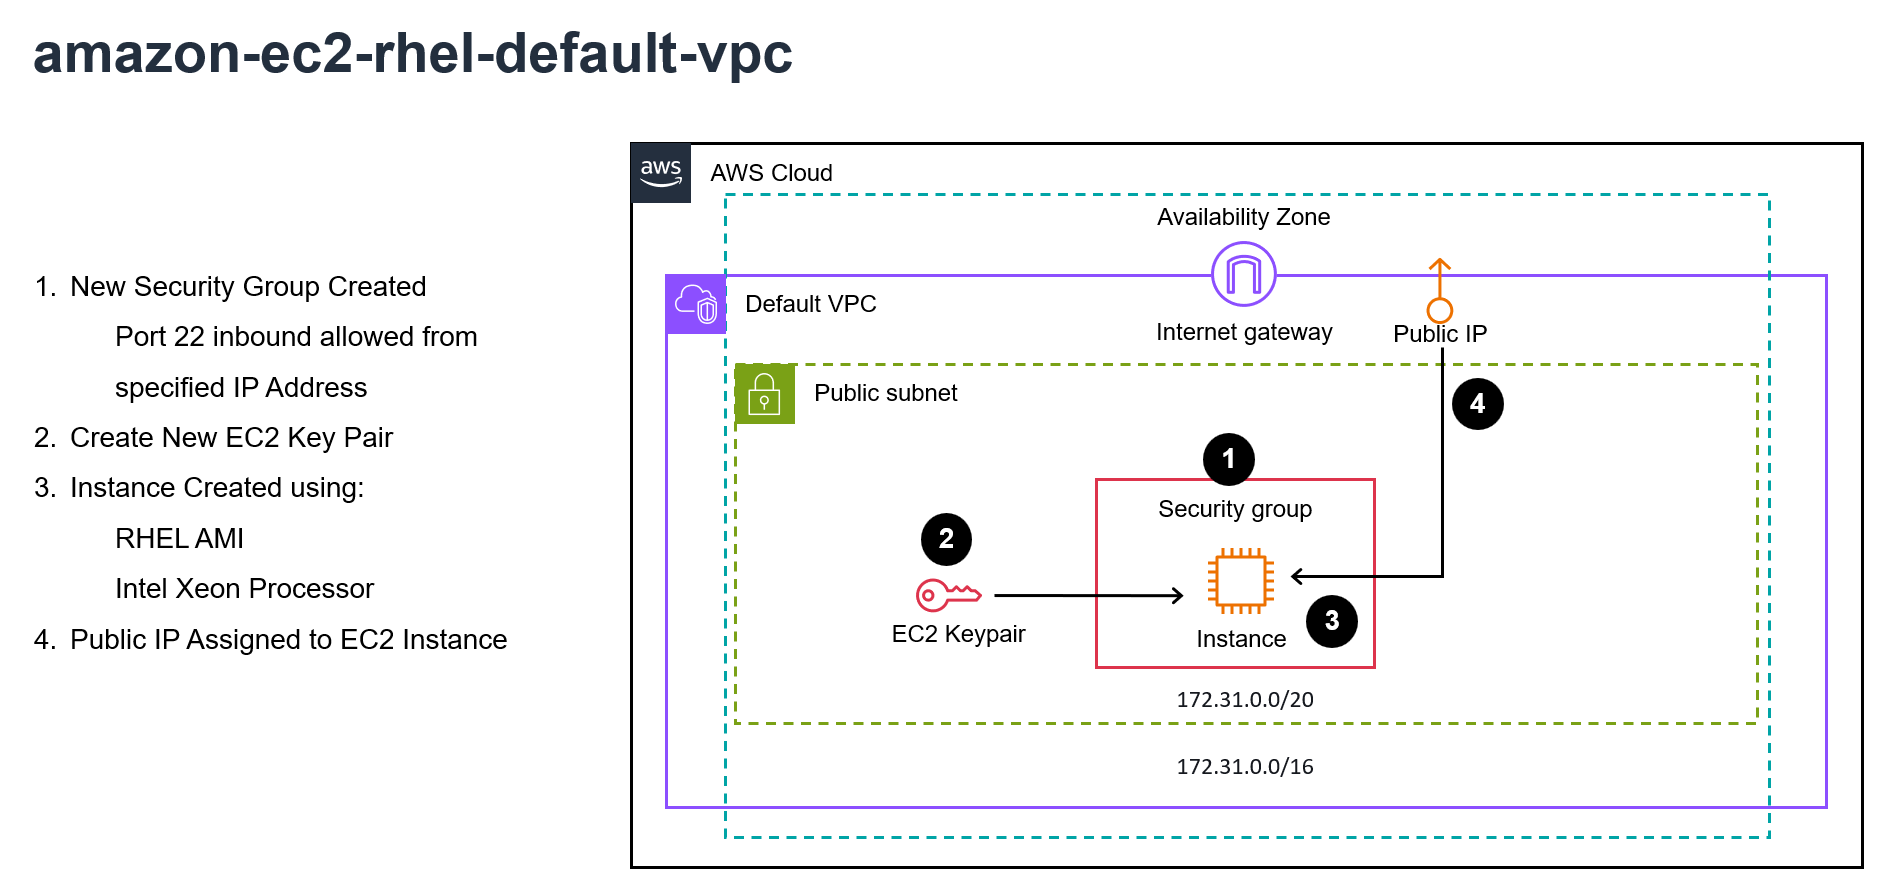
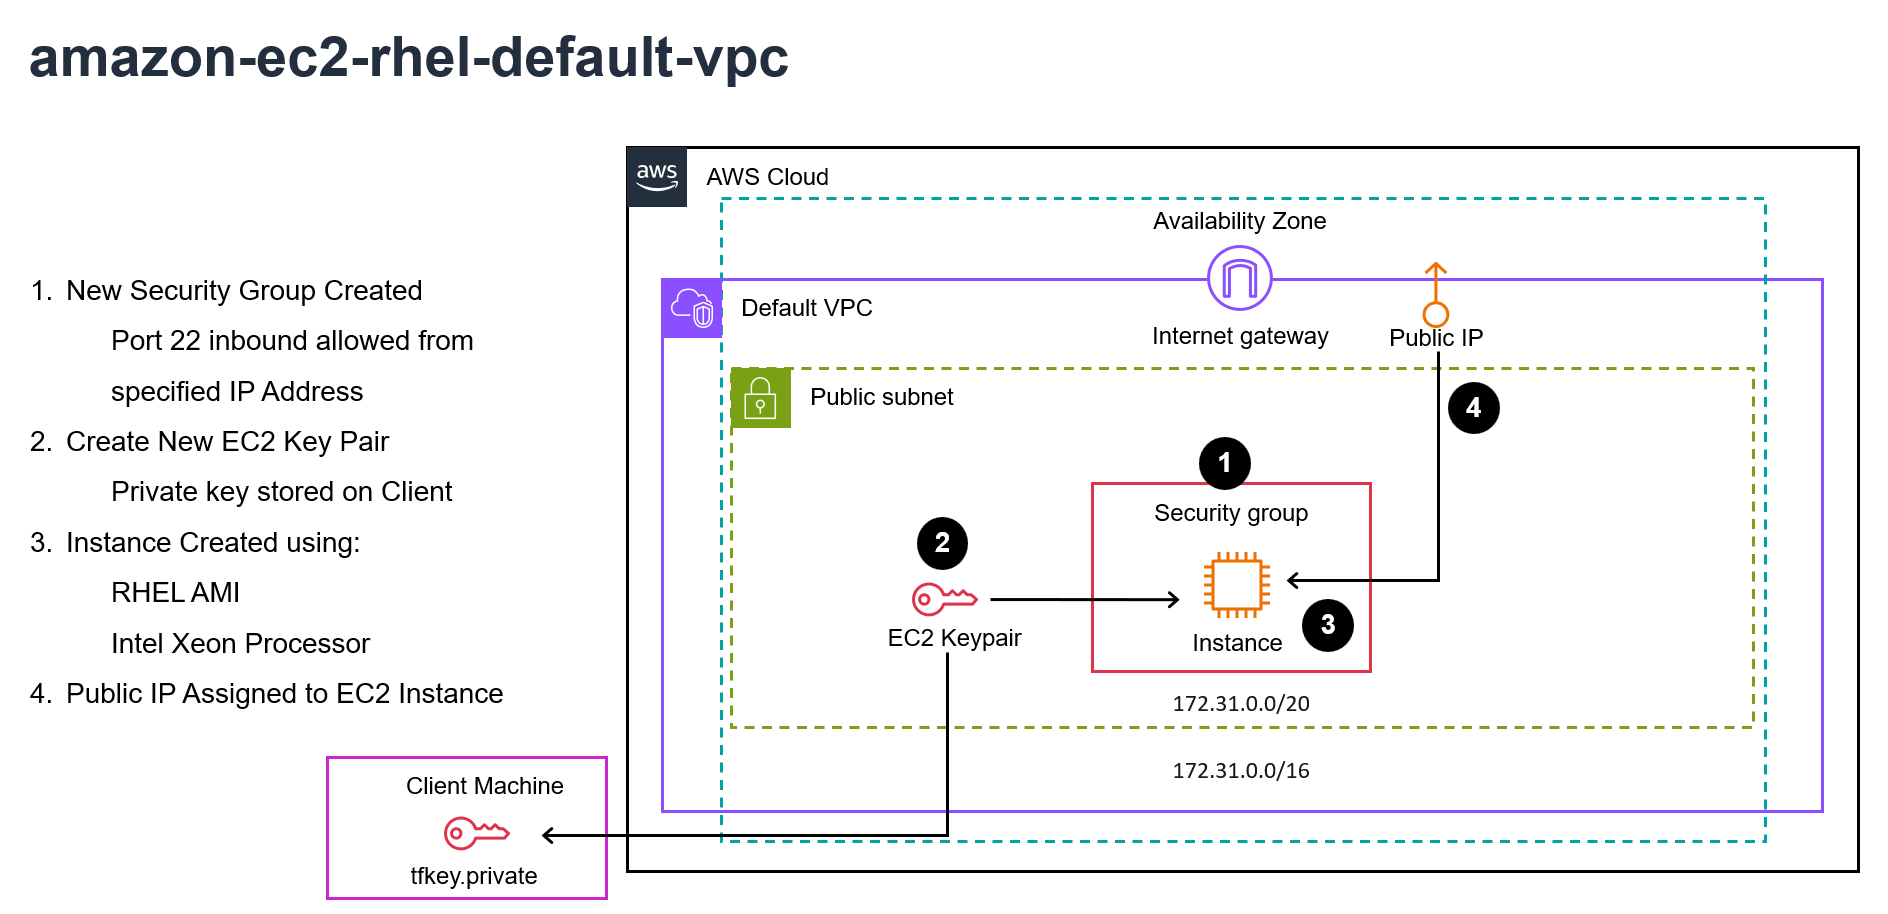
updated readme
Added in Architecture diagram and other components to readmes so they will be approved to use in marketplace

diff --git a/examples/amazon-linux-ec2-capacity-reservation-default-vpc/README.md b/examples/amazon-linux-ec2-capacity-reservation-default-vpc/README.md
@@ -10,15 +10,19 @@
 
 This example provisions a capacity reservation in AWS availability zone us-east-1d. This capacity reservation is used for instance type m6i.large for Linux/UNIX in this availability zone. Instance eligibility for this capacity reservation will be targetted.
 
-Following the capacity reservation, it provisions an EC2 Instance on Icelake on Amazon Linux OS in default vpc using the targetted capacity reservation  created in the above step. It creates the EC2 instance in US-East-1 region. The region is provided in variables.tf in this example folder.
+Following the capacity reservation, it provisions an EC2 Instance on a 4th Generation Intel® Xeon® Scalable Processor (Sapphire Rapids) on Linux OS in the default vpc using the targetted capacity reservation created in the above step. It creates the EC2 instance in US-East-1 region. The region is provided in variables.tf in this example folder.
 
 This example also creates an EC2 key pair. It associates the public key with the EC2 instance. The private key is created in the local system where terraform apply is done. It also creates a new scurity group to open up the SSH port 22 to a specific IP CIDR block.
 
 In this example, the tags Name, Owner and Duration are added to the EC2 instance when it is created.
 
+## Architecture Diagram
+<p align="center">
+  <img src="https://github.com/intel/terraform-intel-aws-vm/blob/main/images/amazon-ec2-capacity-reservation-default-vpc.png?raw=true" alt="amazon-ec2-rhel-default-vpc" width="250"/>
+</p>
+
 ## Usage
 
-**See examples folder ./examples/amazon-linux-ec2-capacity-reservation-default-vpc**
 
 variables.tf
 

diff --git a/examples/amazon-linux-ec2-non-default-vpc/README.md b/examples/amazon-linux-ec2-non-default-vpc/README.md
@@ -8,15 +8,18 @@
 
 ## Terraform Intel AWS VM - Linux VM in Non Default VPC
 
-This example creates an AWS EC2 instance on Intel Icelake CPU on Linux Operating System in a non-default VPC. The non-default VPC id is needed to be passed in this module as a variable. It is configured to create the EC2 instance in US-East-1 region. The region is provided in variables.tf in this example folder.
+This example creates an AWS EC2 instance on 4th Generation Intel® Xeon® Scalable Processor (Sapphire Rapids) on Linux Operating System in a non-default VPC. The non-default VPC id is needed to be passed in this module as a variable. It is configured to create the EC2 instance in US-East-1 region. The region is provided in variables.tf in this example folder.
 
 This example also creates an EC2 key pair. It associates the public key with the EC2 instance. The private key is created in the local system where terraform apply is done. It also creates a new scurity group to open up the SSH port 22 to a specific IP CIDR block.
 
 In this example, the tags Name, Owner and Duration are added to the EC2 instance when it is created.
 
-## Usage
+## Architecture Diagram
+<p align="center">
+  <img src="https://github.com/intel/terraform-intel-aws-vm/blob/main/images/amazon-ec2-non-default-vpc.png?raw=true" alt="amazon-ec2-rhel-default-vpc" width="250"/>
+</p>
 
-**See examples folder ./examples/amazon-linux-ec2-non-default-vpc**
+## Usage
 
 variables.tf
 

diff --git a/examples/amazon-linux-ec2-spot-default-vpc/README.md b/examples/amazon-linux-ec2-spot-default-vpc/README.md
@@ -8,7 +8,7 @@
 
 ## Terraform Intel AWS VM - Spot Linux VM in Default VPC
 
-This example creates EC2 Spot Instance request on Intel Icelake CPU on Amazon Linux OS in default vpc. It is configured to create the EC2 instance in US-East-1 region. The region is provided in variables.tf in this example folder.
+This example creates EC2 Spot Instance request on 4th Generation Intel® Xeon® Scalable Processor (Sapphire Rapids) on Amazon Linux OS in default vpc. It is configured to create the EC2 instance in US-East-1 region. The region is provided in variables.tf in this example folder.
 
 To apply the changes, run command terraform apply. Once the spot request is created, check the status of the spot request in AWS Console or using CLI commands
 
@@ -18,9 +18,13 @@ In this example, no tags are added to the EC2 instance when it is created from t
 
 **As of 04-Aug-2023, AWS support confirmed that M7i/M7i-flex instances are not available in all availability zones of AWS US-East-1 region. Hence added the availability zone in this example where these instance types are available.**
 
+## Architecture Diagram
+<p align="center">
+  <img src="https://github.com/intel/terraform-intel-aws-vm/blob/main/images/amazon-ec2-spot-default-vpc.png?raw=true" alt="amazon-ec2-rhel-default-vpc" width="250"/>
+</p>
+
 ## Usage
 
-**See examples folder ./examples/amazon-linux-ec2-spot-default-vpc**
 
 variables.tf
 

diff --git a/examples/amazon-windows-server-ec2-default-vpc/README.md b/examples/amazon-windows-server-ec2-default-vpc/README.md
@@ -8,15 +8,18 @@
 
 ## Terraform Intel AWS VM - Windows VM in Default VPC
 
-This example creates an AWS EC2 Instance on Intel Icelake CPU on Windows 2019 Server OS in default VPC. It is configured to create the EC2 instance in US-East-1 region. The region is provided in variables.tf in this example folder.
+This example creates an AWS EC2 Instance on 4th Generation Intel® Xeon® Scalable Processor (Sapphire Rapids) on Windows 2019 Server OS in default VPC. It is configured to create the EC2 instance in US-East-1 region. The region is provided in variables.tf in this example folder.
 
 This example also creates an EC2 key pair. It associates the public key with the EC2 instance. The private key is created in the local system where terraform apply is done. It also creates a new scurity group to open up the RDP port 3389 to a specific IP CIDR block. Use the private key to generate the Windows login password (via RDP) following AWS prescribed documentation.
 
 In this example, the tags Name, Owner and Duration are added to the EC2 instance when it is created.
 
-## Usage
+## Architecture Diagram
+<p align="center">
+  <img src="https://github.com/intel/terraform-intel-aws-vm/blob/main/images/gen-ai-fastchat.png?raw=true" alt="amazon-ec2-rhel-default-vpc" width="250"/>
+</p>
 
-**See examples folder ./examples/amazon-windows-server-ec2-default-vpc**
+## Usage
 
 variables.tf
 

diff --git a/examples/amazon-linux-ec2-default-vpc/README.md b/examples/amazon-linux-ec2-default-vpc/README.md
@@ -8,15 +8,18 @@
 
 ## Terraform Intel AWS VM - Linux VM in Default VPC
 
-This example creates an AWS EC2 instance on Intel Icelake CPU on Linux Operating System in the default VPC. It is configured to create the EC2 instance in US-East-1 region. The region is provided in variables.tf in this example folder.
+This example creates an AWS EC2 instance on 4th Generation Intel® Xeon® Scalable Processor (Sapphire Rapids) on Linux Operating System in the default VPC. It is configured to create the EC2 instance in US-East-1 region. The region is provided in variables.tf in this example folder.
 
 This example also creates an EC2 key pair. It associates the public key with the EC2 instance. The private key is created in the local system where terraform apply is done. It also creates a new scurity group to open up the SSH port 22 to a specific IP CIDR block.
 
 In this example, the tags Name, Owner and Duration are added to the EC2 instance when it is created.
 
-## Usage
+## Architecture Diagram
+<p align="center">
+  <img src="https://github.com/intel/terraform-intel-aws-vm/blob/main/images/amazon-ec2-default-vpc.png?raw=true" alt="amazon-ec2-rhel-default-vpc" width="250"/>
+</p>
 
-**See examples folder ./examples/amazon-linux-ec2-default-vpc**
+## Usage
 
 variables.tf
 

diff --git a/examples/gen-ai-fastchat/README.md b/examples/gen-ai-fastchat/README.md
@@ -6,13 +6,17 @@
 
 © Copyright 2022, Intel Corporation
 
-## AWS M7i EC2 Instance with 4th Gen Xeon(code named Sapphire Rapids) & Intel® Cloud Optimized Recipe for FastChat
+## AWS M7i EC2 Instance with 4th Generation Intel® Xeon® Scalable Processor (Sapphire Rapids) & Intel® Cloud Optimized Recipe for FastChat
 
 This demo will showcase Large Language Model(LLM) CPU inference using 4th Gen Xeon Scalable Processors on AWS using FastChat.
 
+## Architecture Diagram
+<p align="center">
+  <img src="https://github.com/intel/terraform-intel-aws-vm/blob/main/images/gen-ai-fastchat.png?raw=true" alt="amazon-ec2-rhel-default-vpc" width="250"/>
+</p>
+
 ## Usage
 
-**See examples folder ./examples/gen-ai-fastchat**
 
 variables.tf
 
@@ -76,6 +80,7 @@ terraform apply
 ```
 
 After **terraform apply** completes, wait about 10 mins. During this time, the Ansible recipe will download/install FastChat and the LLM model
+
 
 ## Running the Demo
 1. As mentioned above, **wait ~10 minutes** for the Recipe to download/install FastChat and the LLM model before continuing

diff --git a/examples/amazon-ec2-rhel-default-vpc/README.md b/examples/amazon-ec2-rhel-default-vpc/README.md
@@ -21,7 +21,6 @@ In this example, the tags Name, Owner and Duration are added to the EC2 instance
 
 ## Usage
 
-
 variables.tf
 
 ```hcl
